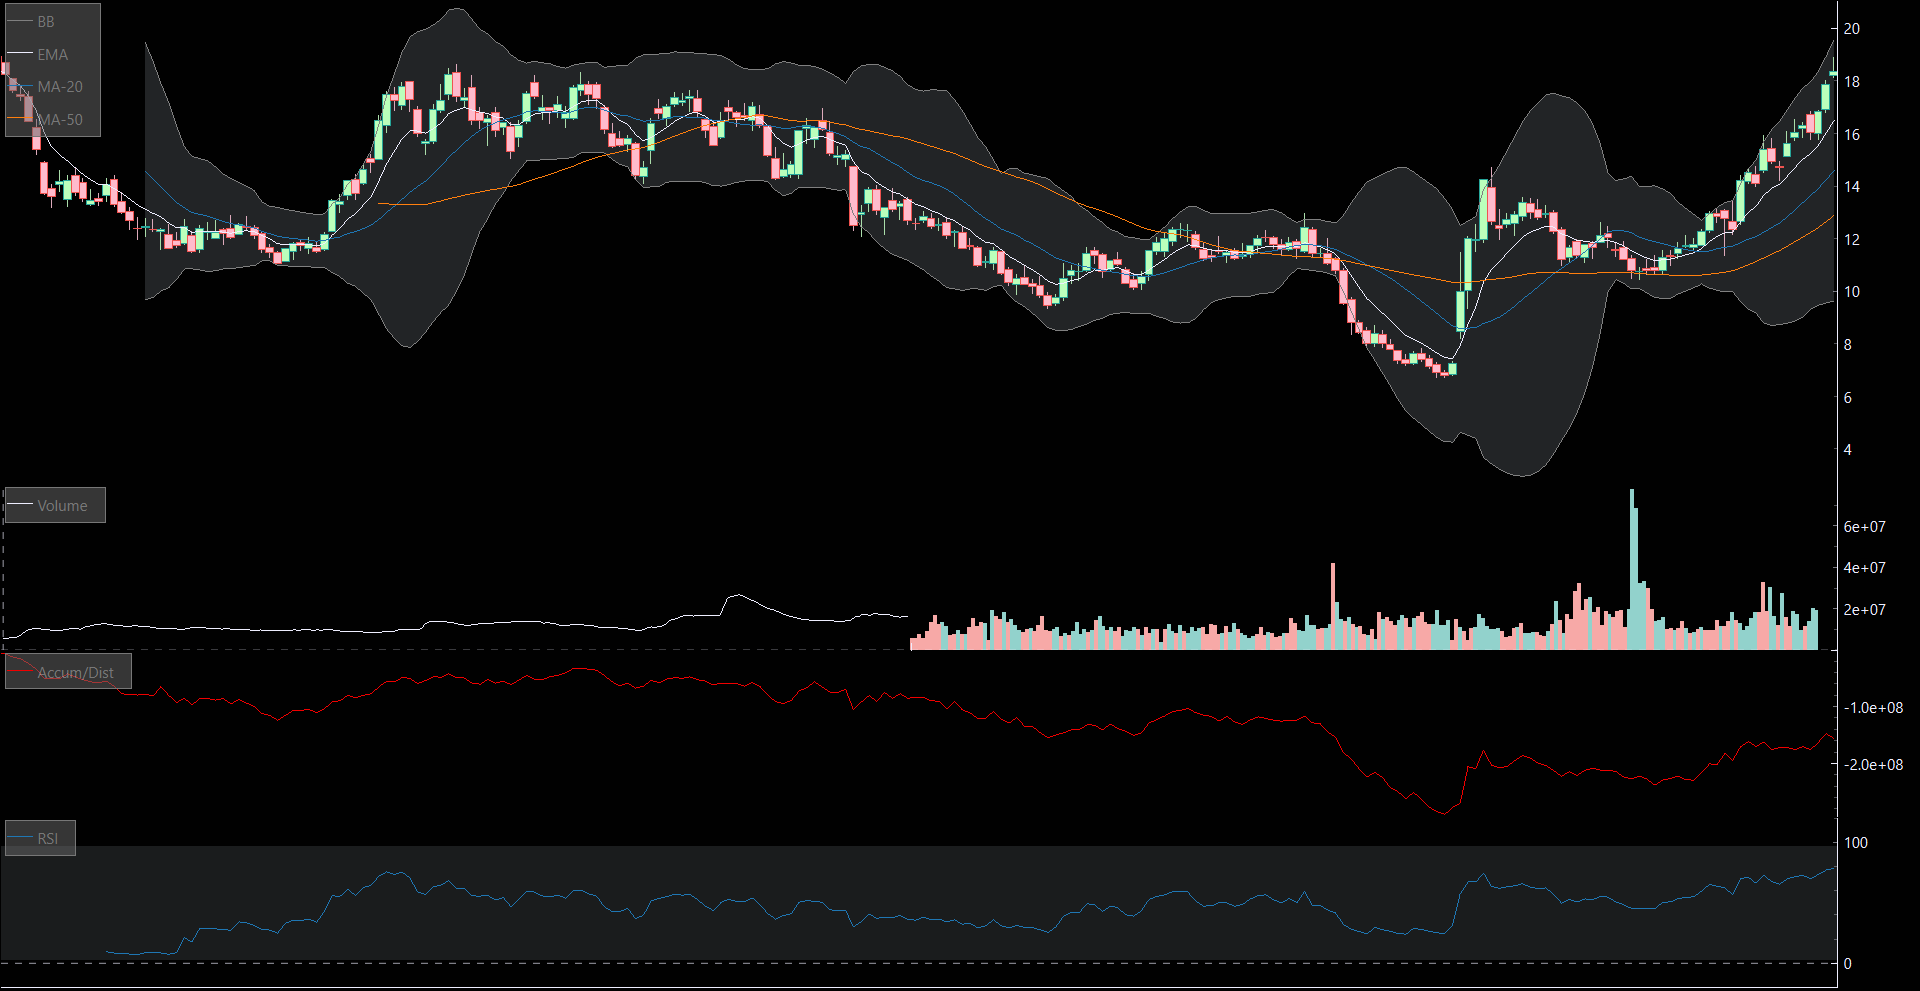
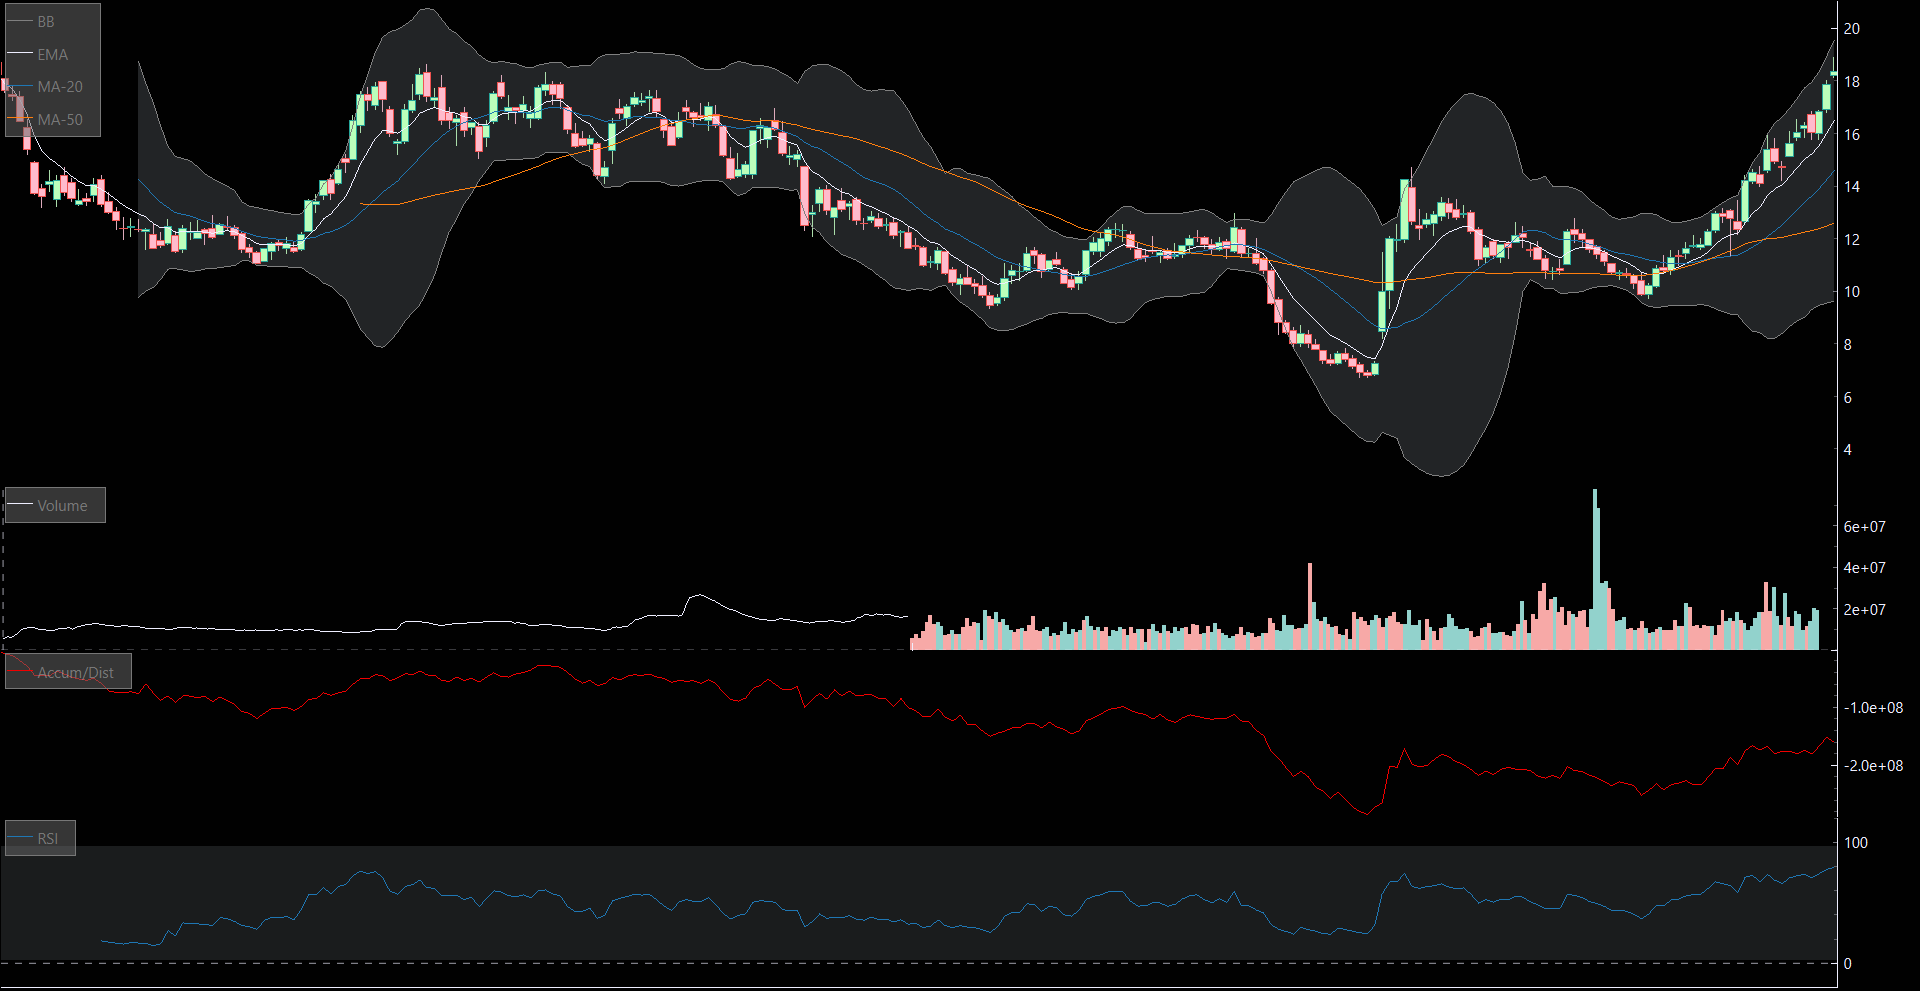
update final

Changed region(s): [[0.0, 0.0, 0.9375, 0.4844], [0.4688, 0.5146, 0.9375, 0.666], [0.9688, 0.7568, 1.0, 0.7871]]

diff --git a/TCC/consumidor/__init__.py b/TCC/consumidor/__init__.py
@@ -23,7 +23,7 @@ def consumer():
     df_final = pd.DataFrame()
     for ativo in symbol_list_ibrx:
         try:
-            chamada_api = yf.Ticker(ativo + ".SA").history(period='1mo')
+            chamada_api = yf.Ticker(ativo + ".SA").history(period='12mo')
             df_hist = pd.DataFrame(chamada_api).reset_index()
             df_hist["Symbol"] = ativo
             df_hist = df_hist[["Date","Symbol","Open","High","Low","Close","Volume","Dividends"]]
